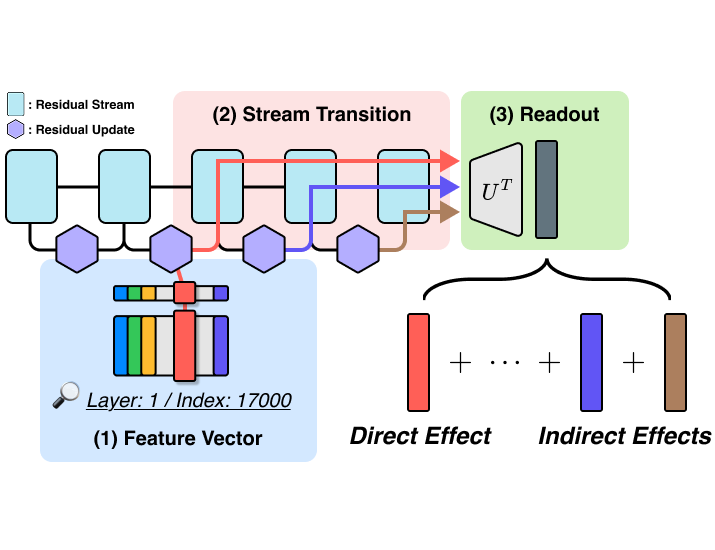
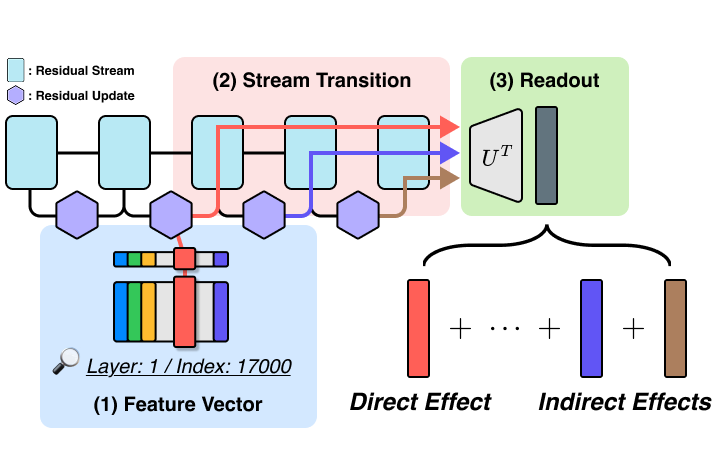
260501

diff --git a/index.md b/index.md
@@ -16,7 +16,7 @@ I'm motivated to explore how LLMs acquire and process knowledge, and importantly
 - **[May 2026]** 🎉 **Paper Accepted to ICML 2026!**  
   My first-author paper *"Query Lens: Interpreting Sparse Key-Value Features with Indirect Effects"* has been accepted to **ICML 2026**. It feels especially meaningful to present this work in **Seoul**, the city where I was born and raised! 🇰🇷
 
-- **[Aug. 2025]** 🎉 **Paper Accepted to EMNLP 2025 Main Conference!**  
+- **[Aug. 2025]** 🎉 **Paper Accepted to EMNLP 2025!**  
   Excited to share that my first-author paper *"Does Localization Inform Unlearning? A Rigorous Examination of Local Parameter Attribution for Knowledge Unlearning in Language Models"* has been accepted to **EMNLP 2025 Main**! Looking forward to presenting our work in **Suzhou**! 🚀
 
 <!-- - **[Feb. 2020]** Our paper about incremental learning is accepted to CVPR 2020.
